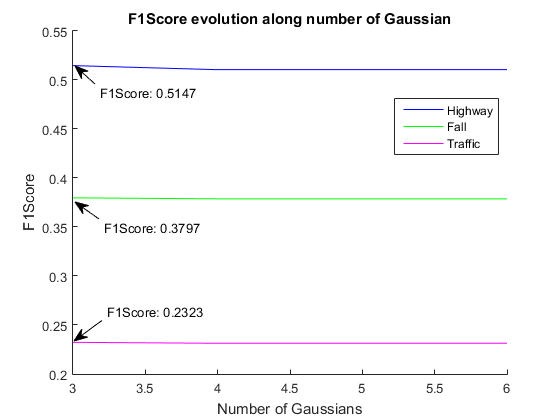
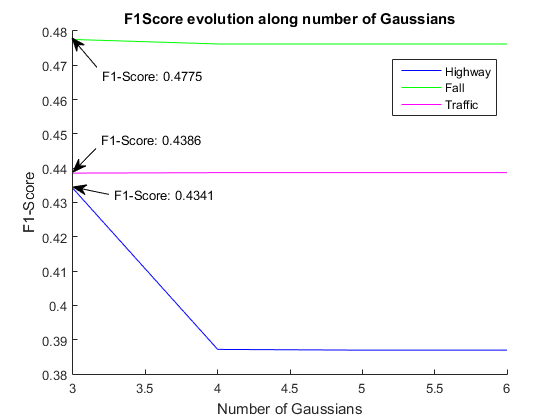
Task 6: training phase was incorrect. Fixed and figures updated.

diff --git a/block2/src/staufferGrimsonMultipleGaussian.m b/block2/src/staufferGrimsonMultipleGaussian.m
@@ -19,8 +19,19 @@ function staufferGrimsonMultipleGaussian( sequence , folderPath , fileFormat , p
         figure;
     end
     
+    % Initialize the model
+    detector = vision.ForegroundDetector('NumTrainingFrames',floor(length(sequence)/2), ...
+                                        'NumGaussians', nGaussians, 'LearningRate', 0.005);
+    
     % First 50% of the test sequence to train the model
-    detector = vision.ForegroundDetector('NumTrainingFrames',floor(length(sequence)/2), 'NumGaussians', nGaussians);
+    for i = 1:floor(length(sequence)/2)
+        % Read image
+        imName = sprintf('%06d', sequence(i));
+        fileName = [ folderPath , imName , fileFormat ];
+        im = imread(fileName);
+        % Just segment for training
+        step(detector, im);
+    end
     
     % Second 50% to segment the foreground
     for i = (floor(length(sequence)/2)+1):length(sequence)

diff --git a/block2/src/main.m b/block2/src/main.m
@@ -414,6 +414,7 @@ minGaussians = 3;
 maxGaussians = 6;
 f1Scores = zeros(length(minGaussians:maxGaussians), 3);
 count = 1;
+addpath('../../evaluation');
 for nGaussians = minGaussians:maxGaussians
     
     % Highway
@@ -449,7 +450,8 @@ end % for
 
 %Plot the results
 colorList = [ 'b', 'g', 'm'];
-fig = figure('Visible','off'); hold on;
+fig = figure('Visible','off', 'PaperUnits', 'centimeters', 'PaperPosition', [0 0 10.5 12.5]); 
+hold on;
 for i=1:size(f1Scores,2)
    plot(minGaussians:maxGaussians, f1Scores(:,i), colorList(i)); 
 end
